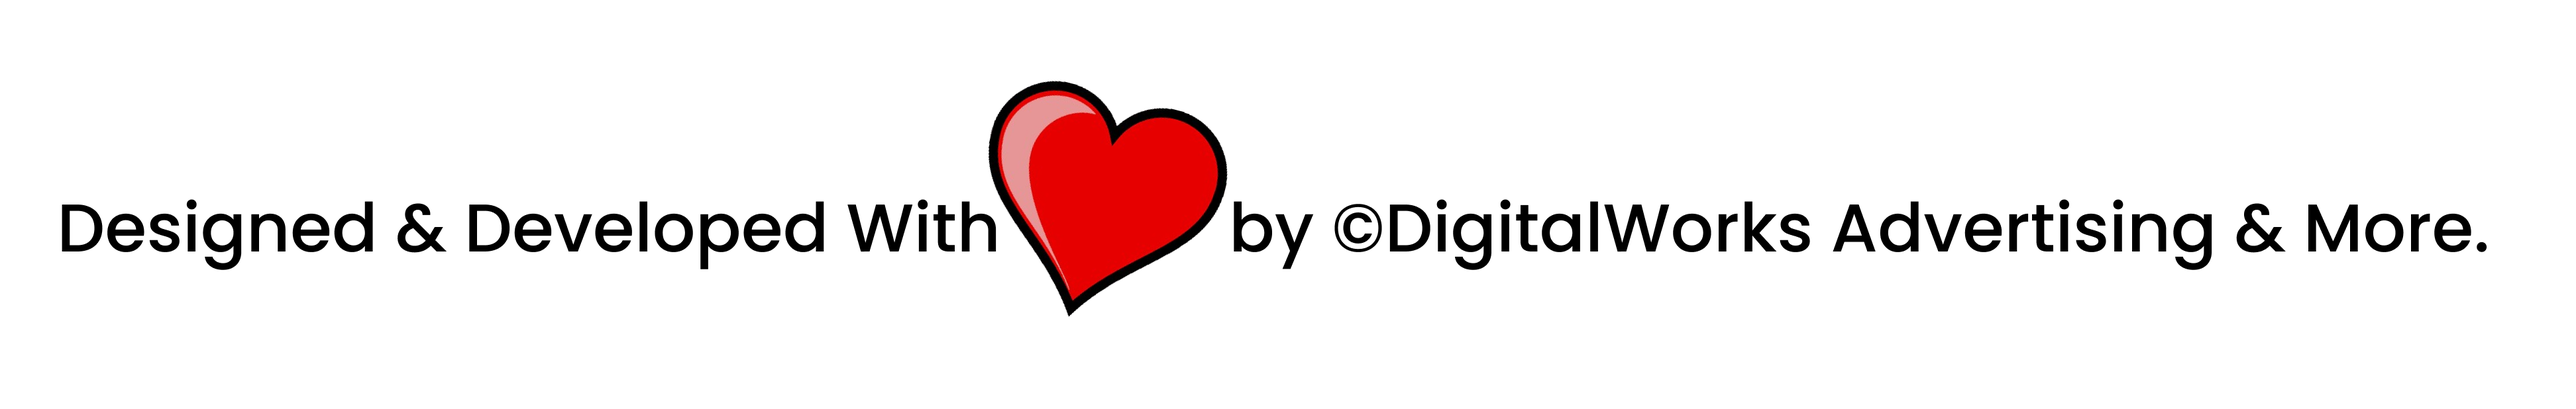
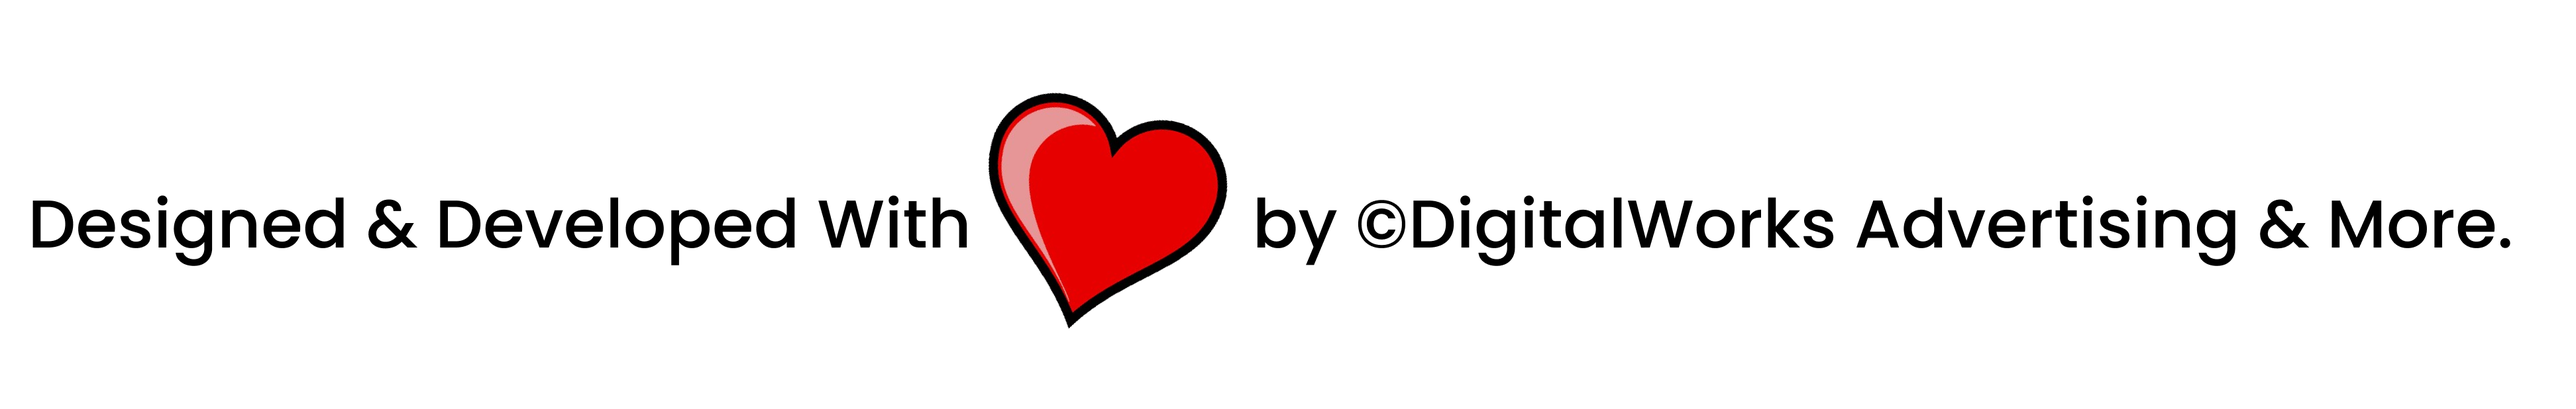
df

Changed region(s): [[0.0, 0.1845, 0.9959, 0.7994]]

diff --git a/styles.css b/styles.css
@@ -8,7 +8,7 @@ body {
     margin: 0;
     font-family: 'Poppins', sans-serif;
     color: #000;
-    width: 100vw;
+    max-width: 100vw;
     height: 100%;
 }
 html, body {
@@ -1458,18 +1458,18 @@ textarea#message {
   font-family: 'Poppins', sans-serif;
 }
 .contactus .contactleft img {
-  width: 350px;
+  width: 400px;
   height: auto;
   padding-bottom: 0;
   margin-bottom: 15px;
-  max-height: 780px;
+  max-height: 1000px;
 }
 .contactright {
   background: linear-gradient(to bottom, #0883DA, #044674);
   display: flex;
   justify-content: center;
   align-items: center;
-  height: 180vh;
+  height:auto;
   width: 45vw;
   border-radius: 25px;
 }
@@ -1746,6 +1746,7 @@ input[type="tel"] {
   background-color: #003B6E;
   color: white;
   padding: 20px;
+  max-width: 100vw;
 }
 
 .footer-content {
@@ -1848,7 +1849,7 @@ color: white;
   text-decoration: none;
 }
 .footerimg img{
-  width: 100vw;
+  width: 100%;
   height: auto;
   bottom: 0;
   

diff --git a/index.html b/index.html
@@ -1206,7 +1206,7 @@ We would Love LOVE to hear from you 😍." required></textarea>
     </div>
   </footer>
   <div class="footerimg">
-    <img src="assets/foot.png" alt="">
+    <img src="assets/foot.png" alt="footer image" id="foot">
   </div>
 </body>
 
